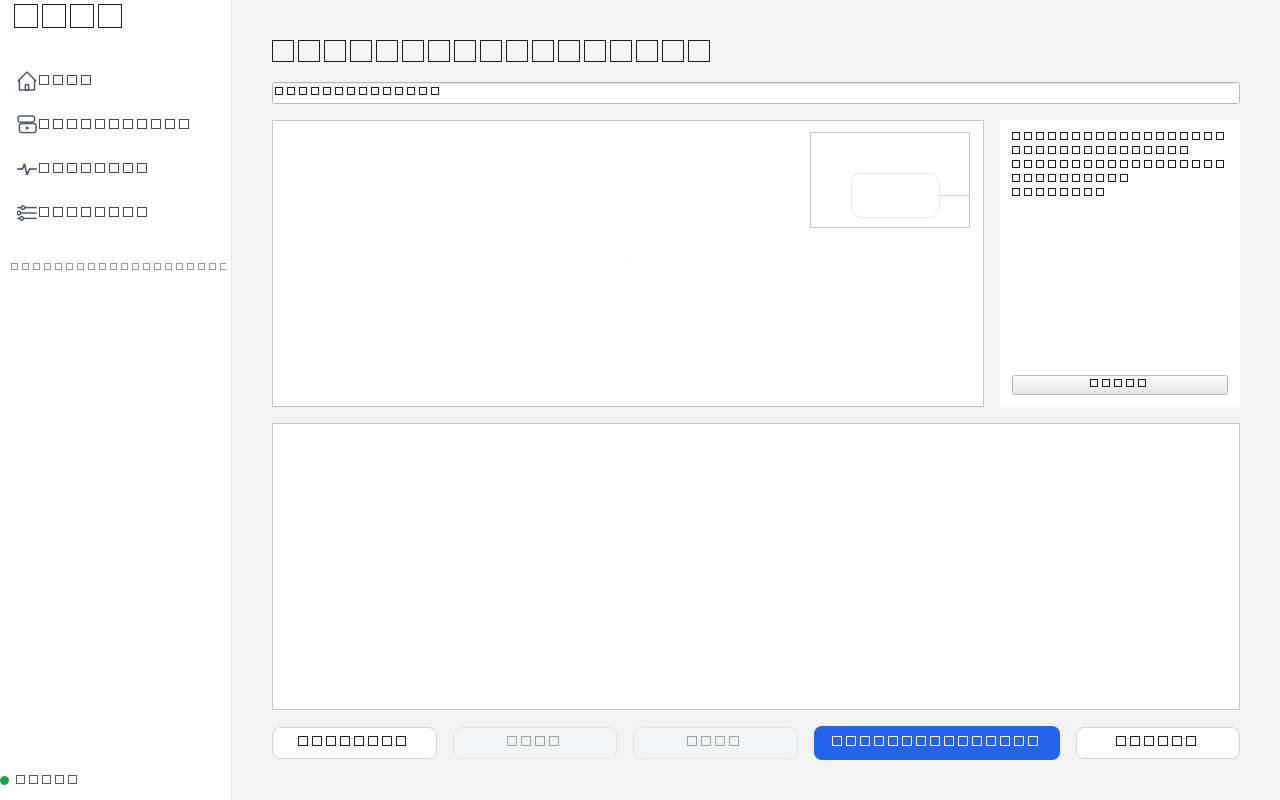
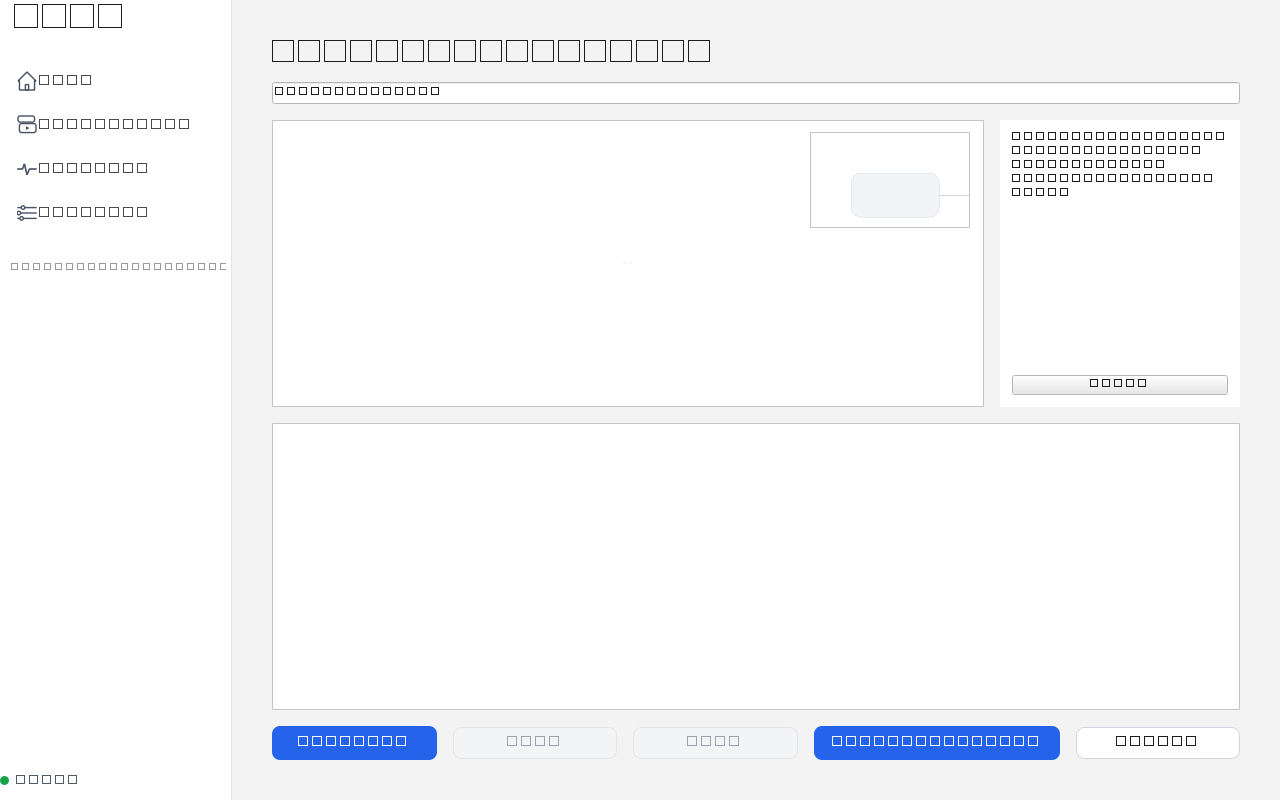
docs: capture clarified editor screens

Changed region(s): [[0.1875, 0.9062, 0.3438, 0.9688], [0.9062, 0.1875, 0.9375, 0.2188]]

diff --git a/docs/ai_engineering_log.md b/docs/ai_engineering_log.md
@@ -1257,7 +1257,7 @@ Append-only. Format per AGENTS.md. Human fills in the "Human review" line.
 - Outcome: PASSED
 - Human review:
 
-## 2026-11-01 — A2e: editor empty-state and terminal UX   (commit: pending)
+## 2026-11-01 — A2e: editor empty-state and terminal UX   (commit: 43efd8b)
 - Task: make the new-automation editor understandable and ensure terminal
   clicks do not look like failed step editing.
 - AI contribution: distinguished fixed Start/Finish markers, added terminal
